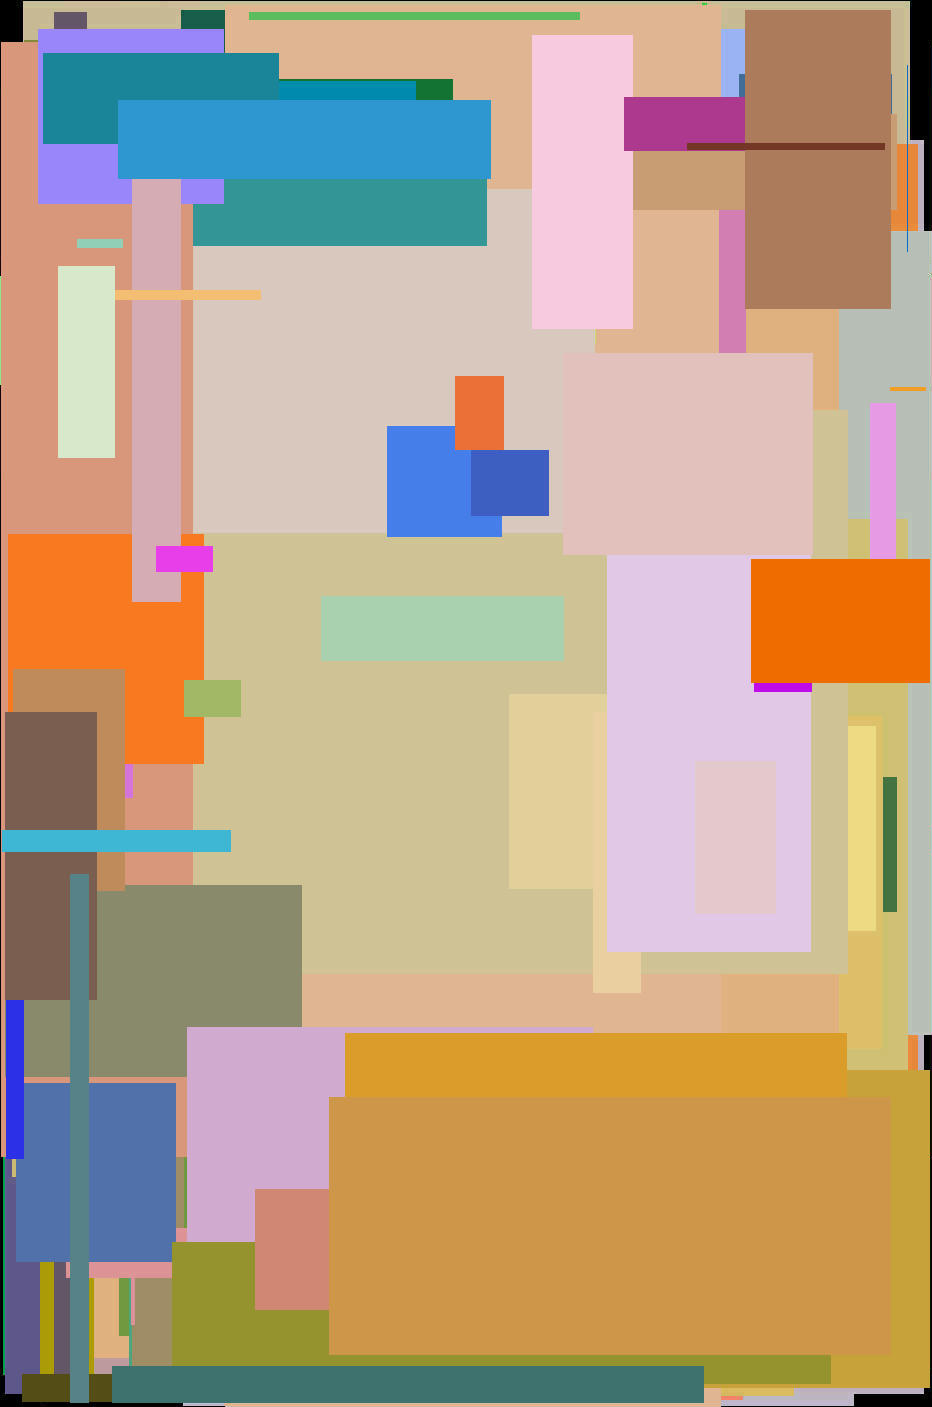
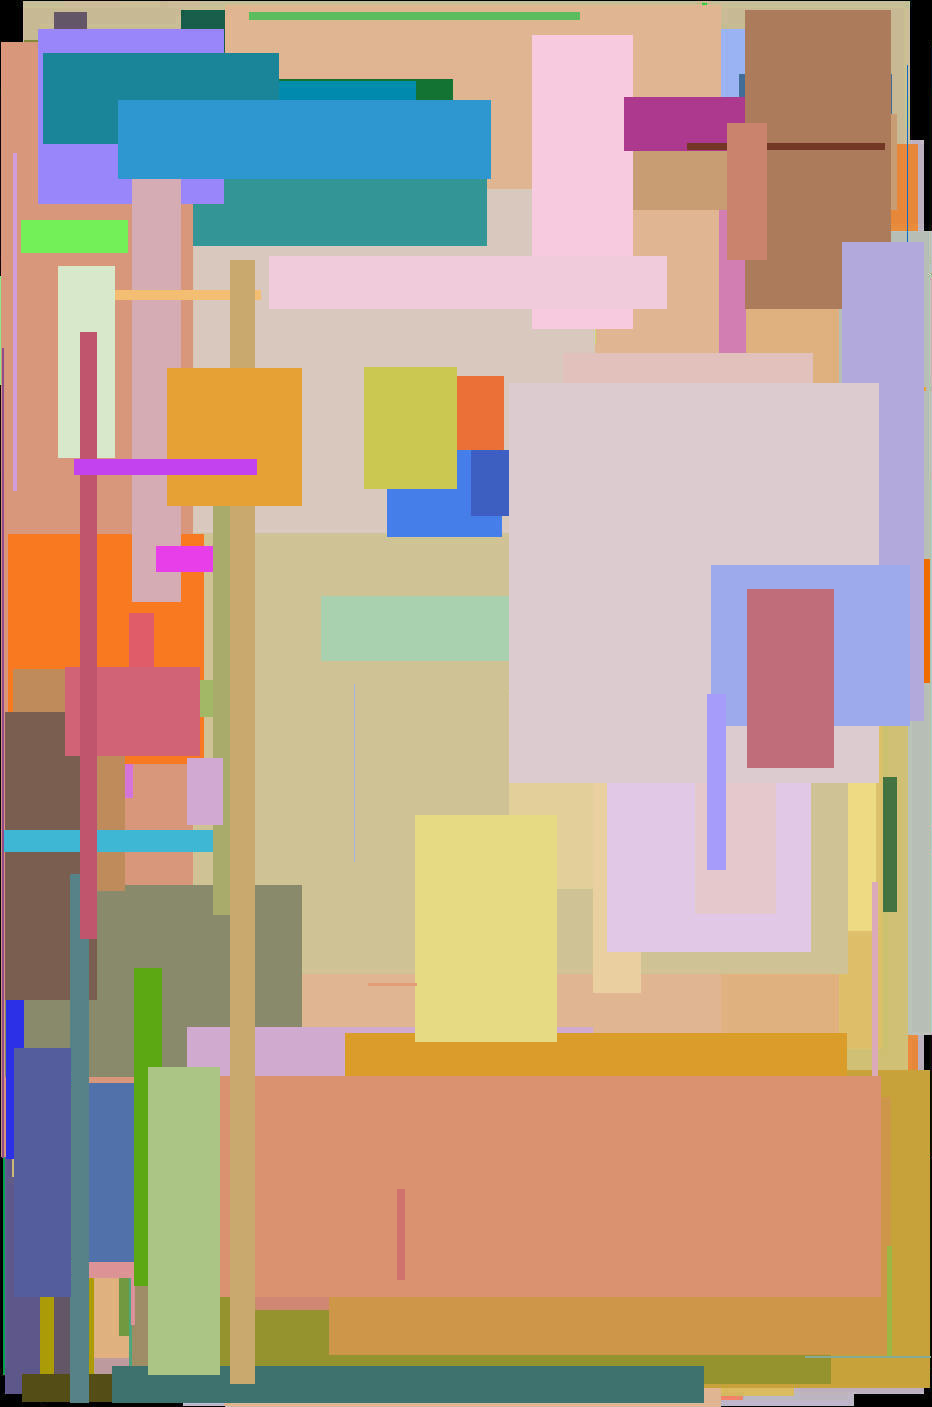
RectPainter: added a heavy bias towards smaller rectangles

diff --git a/src/generator.rs b/src/generator.rs
@@ -100,8 +100,10 @@ impl Painter for RectPainter {
 		//let rng = rand::thread_rng().gen_range(1, 101);
 		let w = canvas.dimensions().0 as f32;
 		let h = canvas.dimensions().1 as f32;
-		let rect_w = (random::<f32>() * w).round() as u32;
-		let rect_h = (random::<f32>() * h).round() as u32;
+		let random_w = random::<f32>();
+		let random_h = random::<f32>();
+		let rect_w = (random_w * random_w * random_w * w).round() as u32;
+		let rect_h = (random_h * random_h * random_h * h).round() as u32;
 		let rect_x = (random::<f32>() * (w - rect_w as f32)).round() as u32;
 		let rect_y = (random::<f32>() * (h - rect_h as f32)).round() as u32;
 		// let pixel = image::RGB(255, 255, 255);
